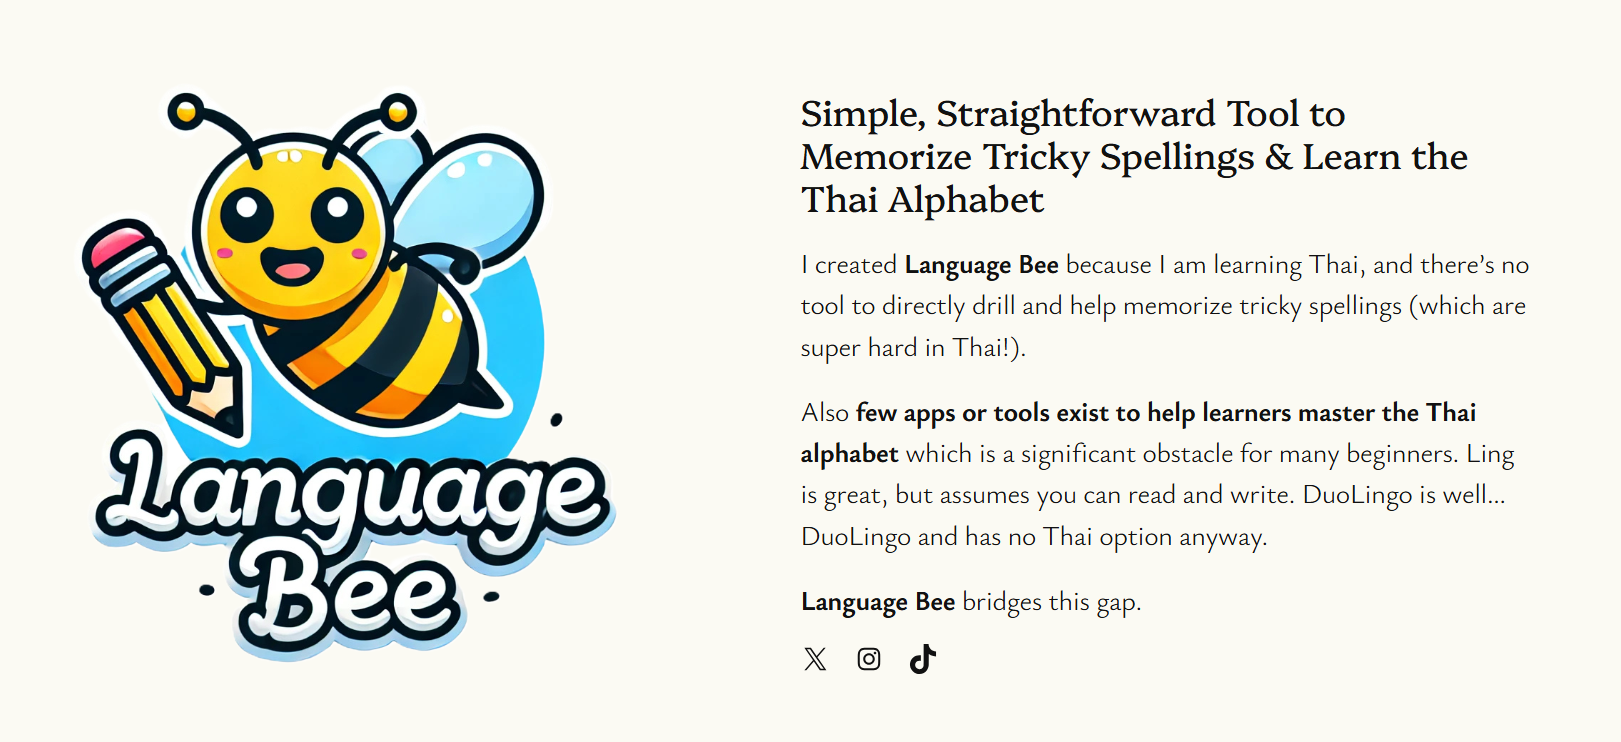
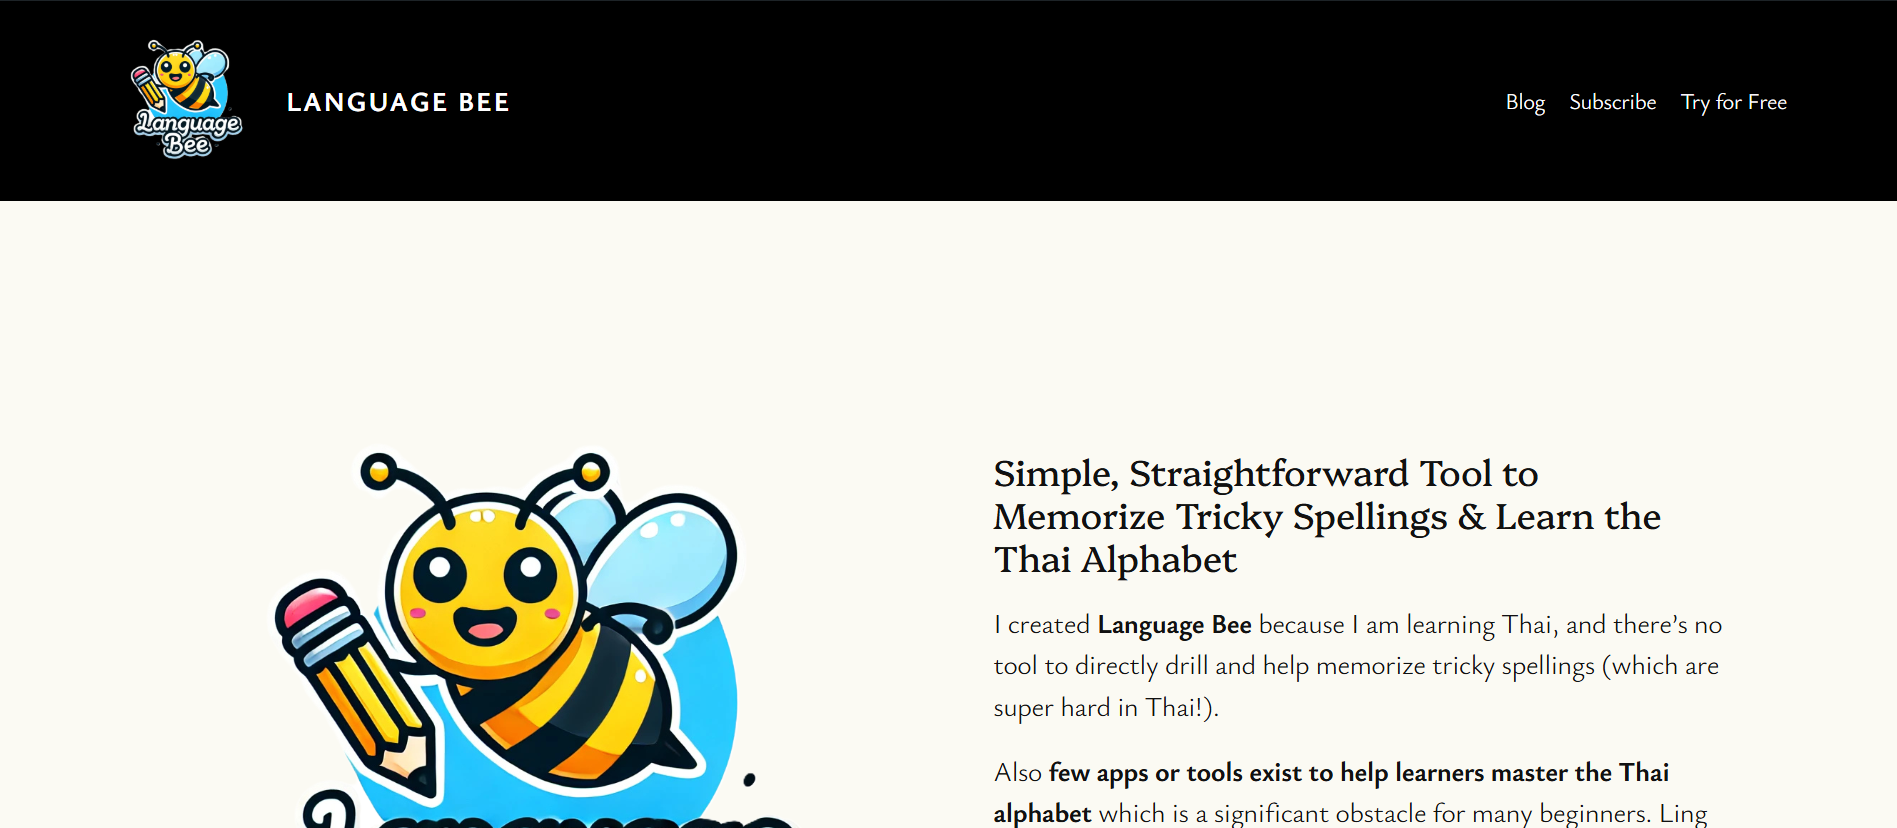
Last One

diff --git a/index.html b/index.html
@@ -301,9 +301,9 @@
 			<div class="cc-porfolio-image img-raised" data-aos="fade-up" data-aos-anchor-placement="top-bottom">
 				  <a href="https://languagebee.net">
 					<figure class="cc-effect">
-					  <div class="image-container">
-						<img src="images/phone_screen.png" alt="Image" />
-					  </div>
+
+						<img src="images/language_bee.png" alt="Image" />
+
 					  <figcaption>
 						<div class="h4">Web/Mobile Project</div>
 						<p>Language Learning App</p>
